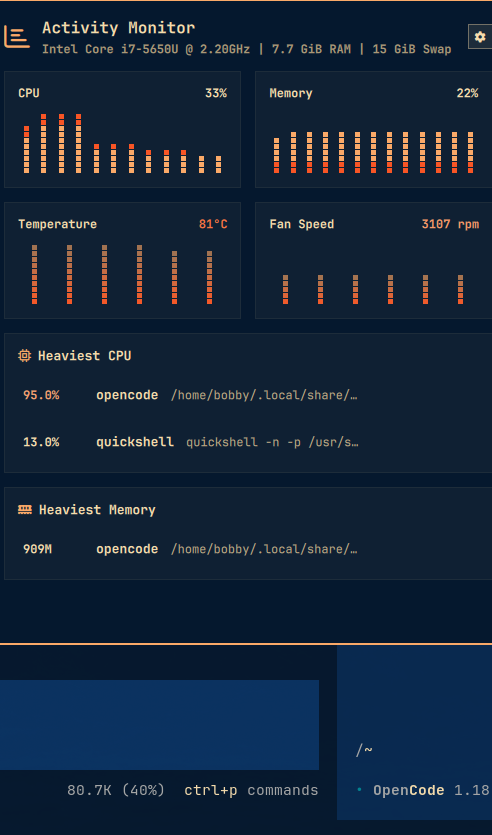
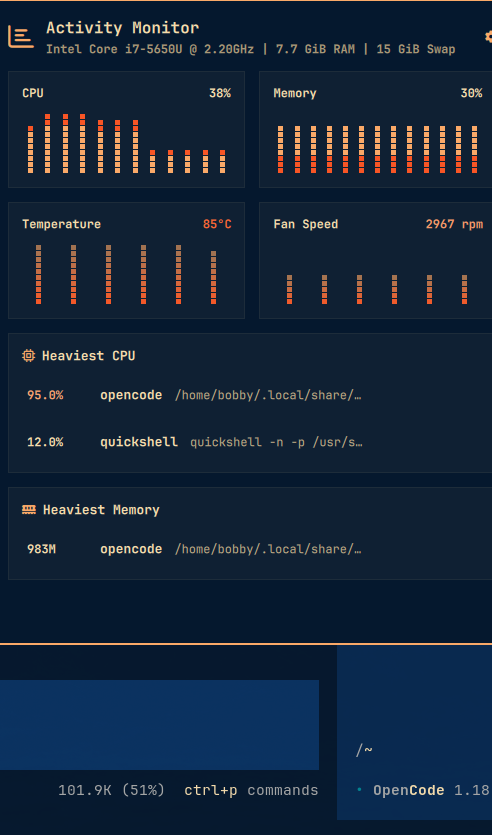
Settings toggles match the panel accent; gear drops its box
The selected mode/toggle chips in the settings drawer used the soft peach
Color.accent, clashing with the vivid bar-urgent tone the panel uses for its
graph column tints and the kill-confirmation chip. Selected chips now take
root.hotColor like the rest of the panel's active elements; ModeChip's default
activeColor follows while explicit overrides (Yes/Force) still pass their own.

The settings gear is no longer a bordered ModeChip: it is a bare glyph in the
header's top-right corner that warms to hotColor while the drawer is open and
brightens on hover.

diff --git a/SystemPanel.qml b/SystemPanel.qml
@@ -266,14 +266,33 @@ Text {
             }
           }
 
-          // Gear Icon for In-Panel Settings
-          ModeChip {
+          // Gear Icon for In-Panel Settings — a bare glyph in the header's
+          // top-right corner, no box around it.
+          Item {
             id: settingsButton
-            label: "\uF013"
-            selected: root.settingsOpen
+            implicitWidth: settingsGlyph.implicitWidth
+            implicitHeight: settingsGlyph.implicitHeight
             anchors.right: parent.right
             anchors.verticalCenter: parent.verticalCenter
-            onPicked: root.settingsOpen = !root.settingsOpen
+
+            Text {
+              id: settingsGlyph
+              anchors.centerIn: parent
+              text: "\uF013"
+              color: root.settingsOpen
+                ? root.hotColor
+                : (settingsHover.containsMouse ? root.baseColor : Color.accent)
+              font.family: root.fontFamily
+              font.pixelSize: Style.font.bodySmall
+            }
+
+            MouseArea {
+              id: settingsHover
+              anchors.fill: parent
+              hoverEnabled: true
+              cursorShape: Qt.PointingHandCursor
+              onClicked: root.settingsOpen = !root.settingsOpen
+            }
           }
         }
 
@@ -765,7 +784,7 @@ Text {
     id: chip
     property string label: ""
     property bool selected: false
-    property color activeColor: Color.accent
+    property color activeColor: root.hotColor
     // When false the chip ignores its own hover so a surrounding row's hover
     // state stays authoritative (stops the show-on-hover toggling).
     property bool hoverable: true
